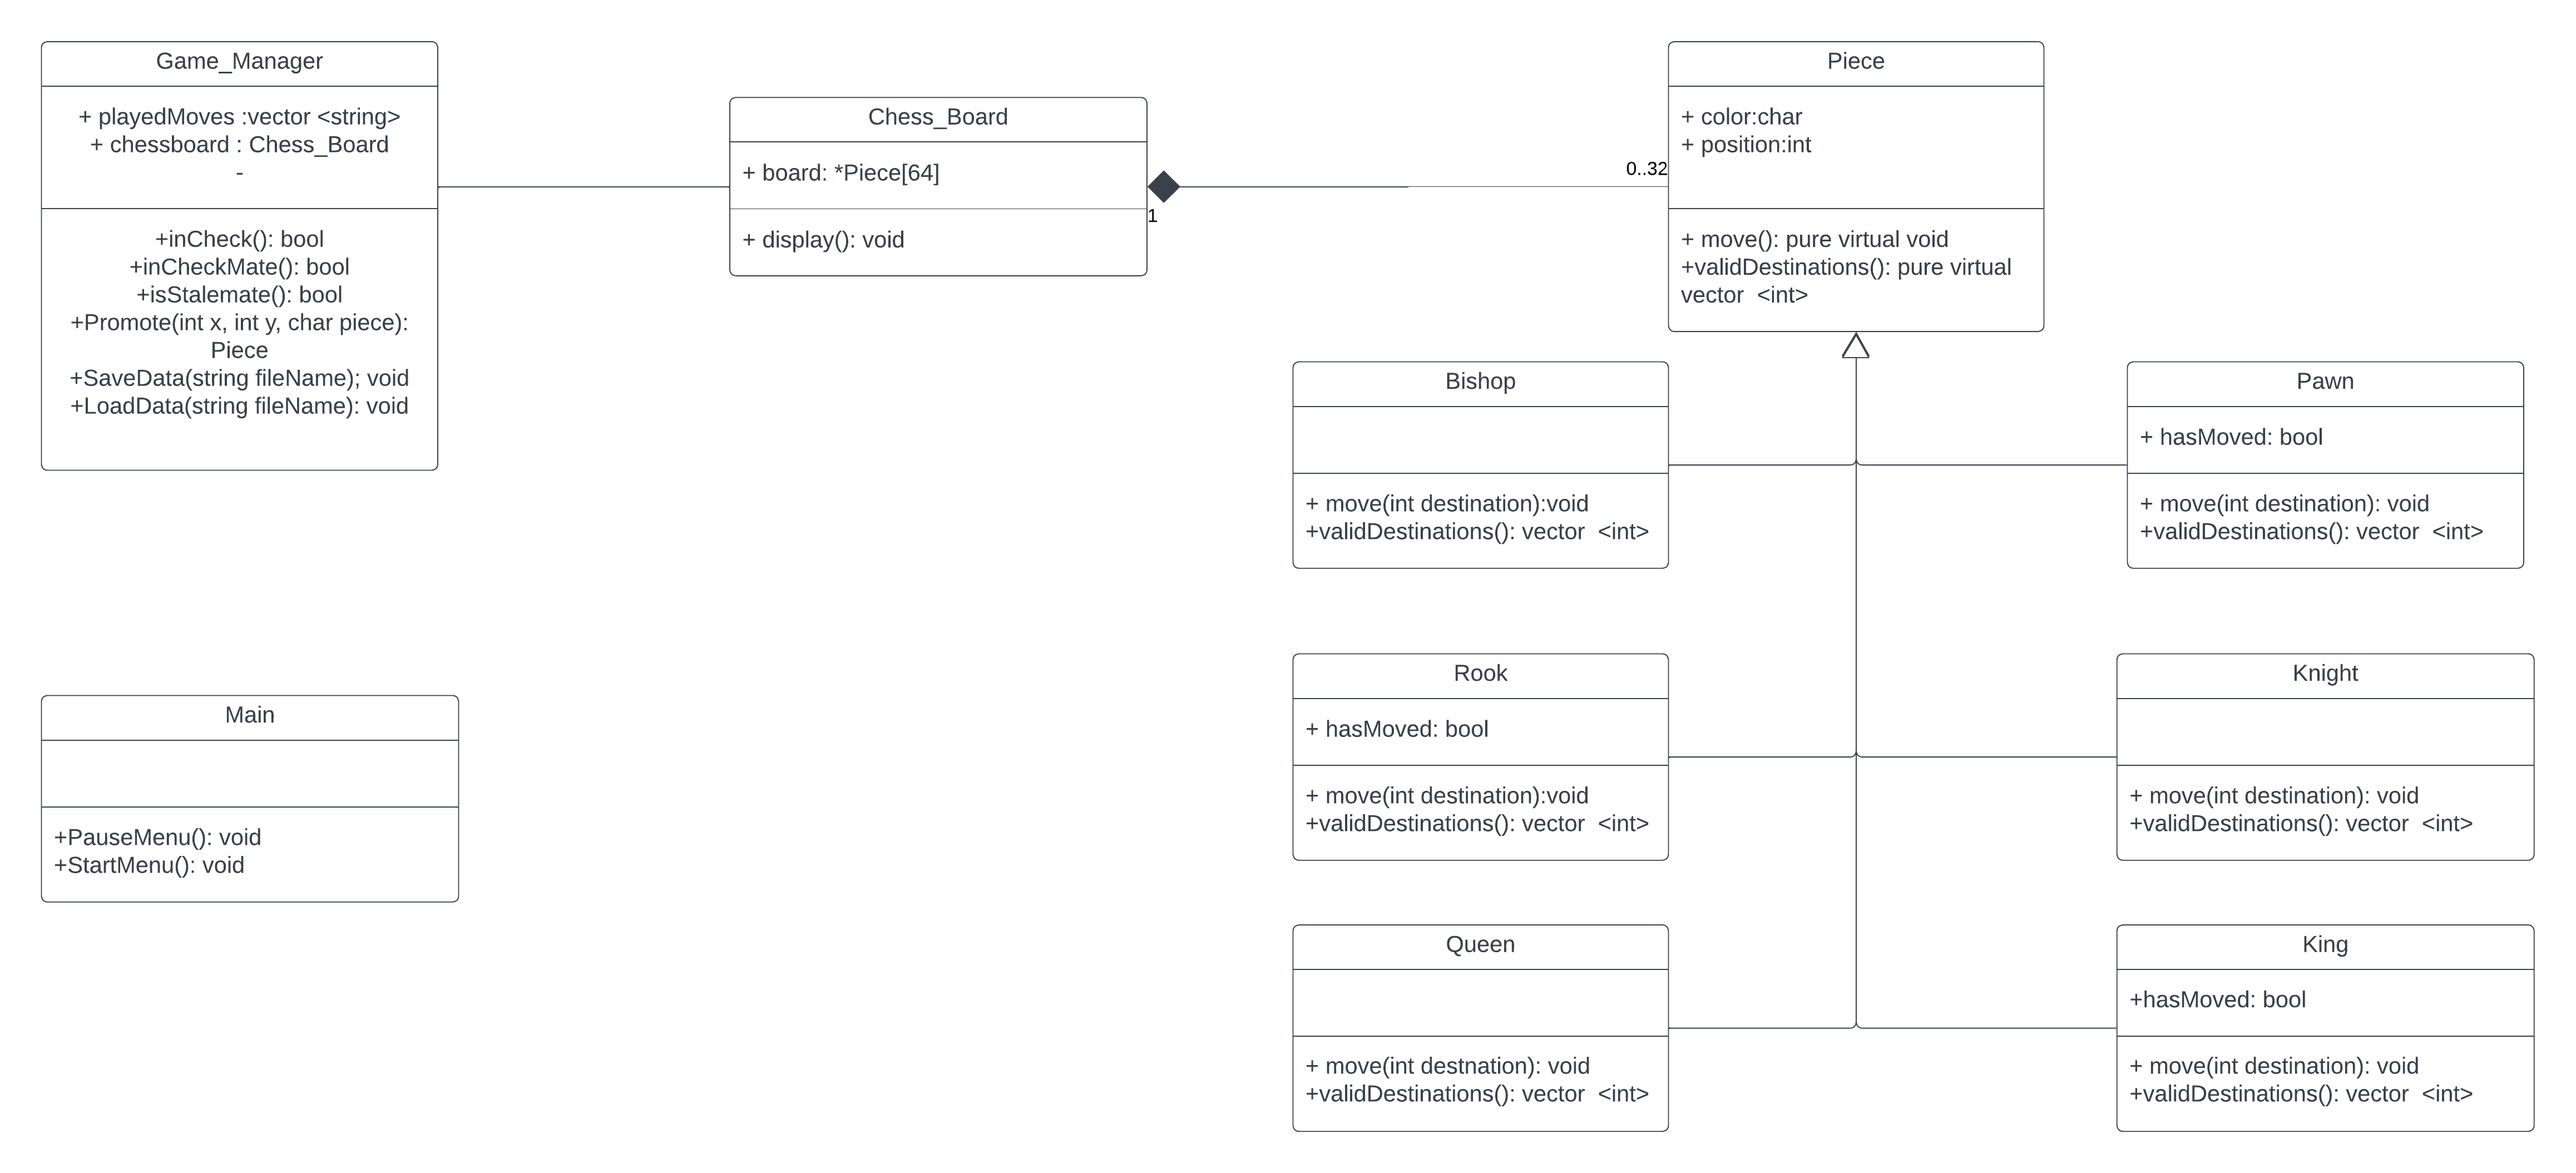
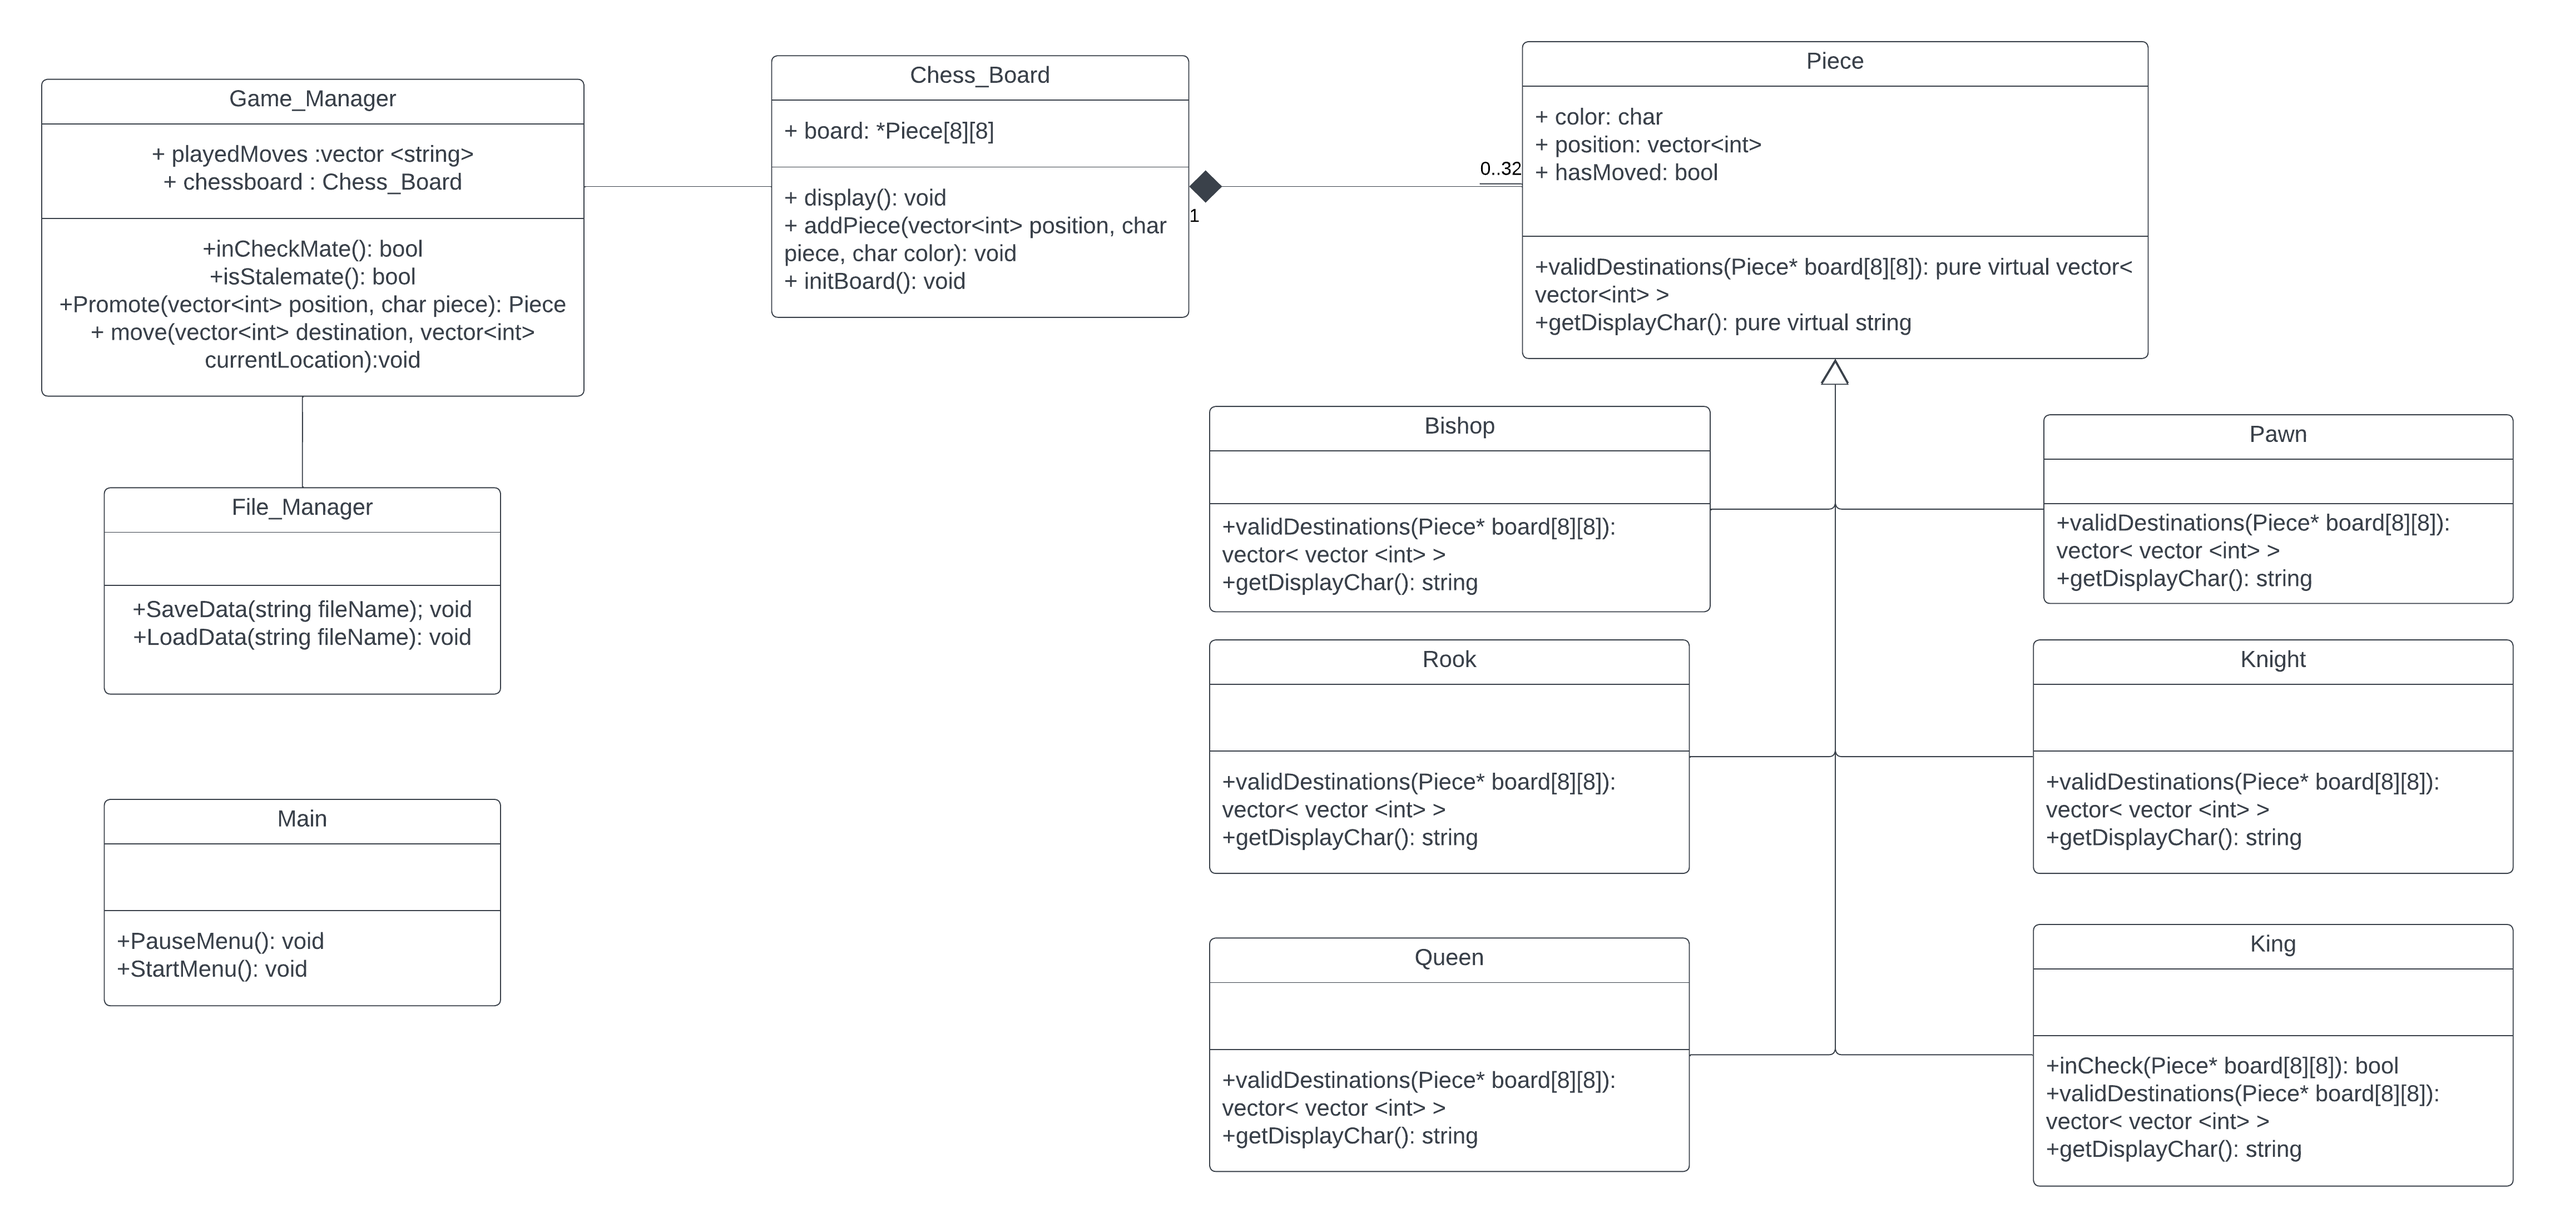
Update for Milestone 3

diff --git a/README.md b/README.md
@@ -80,28 +80,9 @@ White/Black Wins!
 
 The Game_Manager class is used to store the previous moves and the board. It is also used to perform functions for certain cases such as check, stalemate, and checkmate. This class also is used for pawn promotions, and saving or loading previous games. It is associated with the Chess_Board class because it cannot do any of its functions without a chess board, and the chess board is useless without the game manager. 
 
-The Chess_Board class serves as the storage area for the chess pieces and represents all the spaces in a chess board. It is composed of an array of Piece pointers (array size of 64 to represent every space on a normal chess board). Each slot will either be null (empty space) or have a piece pointer towards a specific chess piece (Rook, Knight, etc…). It also displays the current state of the board with the display function.
+The responsibility of the Game Manager was too large as it was handling both game management and file management, which violated the single responsibility principle. To fix this, we separated the Game Manager class into Game Manager and File Manager classes. This will help us to write better, more readable/manageable code since the separation reduces the complexity of Game Manager without changing the overall functionality.
 
- 
- > ## Phase III
- > You will need to schedule a check-in for the second scrum meeting with the same reader you had your first scrum meeting with (using Calendly). Your entire team must be present. This meeting will occur on week 8 during lab time.
- 
- > BEFORE the meeting you should do the following:
- > * Update your class diagram from Phase II to include any feedback you received from your TA/grader.
- > * Considering the SOLID design principles, reflect back on your class diagram and think about how you can use the SOLID principles to improve your design. You should then update the README.md file by adding the following:
- >   * A new class diagram incorporating your changes after considering the SOLID principles.
- >   * For each update in your class diagram, you must explain in 3-4 sentences:
- >     * What SOLID principle(s) did you apply?
- >     * How did you apply it? i.e. describe the change.
- >     * How did this change help you write better code?
- > * Perform a new sprint plan like you did in Phase II.
- > * You should also make sure that your README file (and Project board) are up-to-date reflecting the current status of your project and the most recent class diagram. Previous versions of the README file should still be visible through your commit history.
- 
-> During the meeting with your reader you will discuss: 
- > * How effective your last sprint was (each member should talk about what they did)
- > * Any tasks that did not get completed last sprint, and how you took them into consideration for this sprint
- > * Any bugs you've identified and created issues for during the sprint. Do you plan on fixing them in the next sprint or are they lower priority?
- > * What tasks you are planning for this next sprint.
+The move function was initially being implemented for each piece, but the function was similar for all pieces (adjusting pointers on board to reflect new locations). This is a violation of the open-closed principle because the move function should be closed for modification once it is written. In order to fix this, the game manager class is now responsible for the move function, and it is only implemented once. This change allows for more readable code and reduces the amount of duplicated code.
 
  
  > ## Final deliverable
